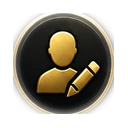
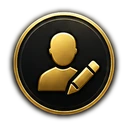
feat: refine daily plan session visuals

diff --git a/src/tabs/RihlahHome.jsx b/src/tabs/RihlahHome.jsx
@@ -315,24 +315,20 @@ export default function RihlahHome({
               const sess=SESSIONS.find(s=>s.id===row.id);
               const done=!!dailyChecks[row.id];
               const isActive=row.id===activeSess?.id&&!done;
+              const accent=sess?.color||"#4ADE80";
               return (
-                <div key={row.id}>
-                  <div className="sbtn" onClick={()=>toggleCheck(row.id)} style={{padding:"10px 8px",cursor:"pointer",borderRadius:10,background:done?`linear-gradient(90deg,${sess?.color||"#4ADE80"}22 0%,${sess?.color||"#4ADE80"}08 100%)`:"transparent",border:`1px solid ${done?(sess?.color||"#4ADE80")+"55":"transparent"}`,boxShadow:done?`inset 0 0 14px ${sess?.color||"#4ADE80"}18`:"none",transition:"all .2s"}}>
-                    <div style={{display:"flex",alignItems:"center",gap:10}}>
-                      <div style={{width:42,height:42,display:"flex",alignItems:"center",justifyContent:"center",flexShrink:0,filter:`drop-shadow(0 0 ${done?10:6}px rgba(230,184,74,0.5))`,position:"relative"}}>
-                        {sess && <SessionMedallion id={sess.id} size={42} color={sess.color} />}
-                        {done&&<div style={{position:"absolute",bottom:-2,right:-2,width:14,height:14,borderRadius:"50%",background:sess?.color||"#4ADE80",display:"flex",alignItems:"center",justifyContent:"center",fontSize:8,color:"#fff",fontWeight:800,boxShadow:`0 0 6px ${sess?.color||"#4ADE80"}80`}}><CheckGlyph size={9}/></div>}
-                      </div>
-                      <div style={{flex:1,minWidth:0}}>
-                        <div style={{fontSize:13,fontWeight:600}}>
-                          <span style={{color:isActive?"#F0C040":done?(sess?.color||"#4ADE80"):"#E6B84A",textShadow:isActive?"0 0 10px rgba(240,192,64,0.30)":done?`0 0 10px ${sess?.color||"#4ADE80"}55`:"0 0 10px rgba(230,184,74,0.25)"}}>{sess?.time||row.id}</span>{" "}
-                          <span style={{fontWeight:400,color:done?"rgba(243,231,200,0.85)":"rgba(243,231,200,0.55)"}}>— {row.label}</span>
-                        </div>
-                        <div style={{fontSize:11,color:done?"rgba(243,231,200,0.55)":"rgba(243,231,200,0.30)",marginTop:2}}>{row.desc}</div>
-                      </div>
-                    </div>
+                <div key={row.id} className="sbtn" onClick={()=>toggleCheck(row.id)} style={{display:"flex",alignItems:"center",gap:12,padding:"11px 12px",borderRadius:14,marginBottom:8,cursor:"pointer",background:done?`linear-gradient(90deg,${accent}2E 0%,${accent}0D 100%)`:`linear-gradient(90deg,${accent}18 0%,${accent}05 100%)`,border:`1px solid ${done?accent+"55":isActive?accent+"3A":accent+"20"}`,boxShadow:isActive?`inset 0 0 16px ${accent}1A,0 0 10px ${accent}14`:done?`inset 0 0 12px ${accent}14`:"none",transition:"all .2s"}}>
+                  <div style={{width:48,height:48,display:"flex",alignItems:"center",justifyContent:"center",flexShrink:0,filter:`drop-shadow(0 0 ${done||isActive?9:6}px rgba(230,184,74,0.5))`,position:"relative"}}>
+                    {sess && <SessionMedallion id={sess.id} size={48} color={accent} />}
+                    {done&&<div style={{position:"absolute",bottom:-2,right:-2,width:14,height:14,borderRadius:"50%",background:accent,display:"flex",alignItems:"center",justifyContent:"center",fontSize:8,color:"#fff",fontWeight:800,boxShadow:`0 0 6px ${accent}80`}}><CheckGlyph size={9}/></div>}
                   </div>
-                  {i<arr.length-1&&<div style={{height:1,background:"linear-gradient(90deg,rgba(217,177,95,0) 0%,rgba(232,200,120,0.30) 50%,rgba(217,177,95,0) 100%)"}}/>}
+                  <div style={{flex:1,minWidth:0}}>
+                    <div style={{fontSize:13,fontWeight:600}}>
+                      <span style={{color:isActive?accent:done?accent:"#E6B84A",textShadow:isActive||done?`0 0 10px ${accent}55`:"0 0 10px rgba(230,184,74,0.25)"}}>{sess?.time||row.id}</span>{" "}
+                      <span style={{fontWeight:400,color:done?"rgba(243,231,200,0.85)":"rgba(243,231,200,0.60)"}}>— {row.label}</span>
+                    </div>
+                    <div style={{fontSize:11,color:done?"rgba(243,231,200,0.55)":"rgba(243,231,200,0.35)",marginTop:2}}>{row.desc}</div>
+                  </div>
                 </div>
               );
             });
@@ -347,8 +343,8 @@ export default function RihlahHome({
       <div style={{background:dark?"linear-gradient(135deg,rgba(30,35,50,0.9) 0%,rgba(20,25,40,0.7) 100%)":"#EADFC8",backdropFilter:"blur(20px)",border:"1px solid rgba(255,255,255,0.08)",borderRadius:22,boxShadow:dark?"0 8px 32px rgba(0,0,0,0.4),inset 0 1px 0 rgba(255,255,255,0.05)":"0 4px 16px rgba(0,0,0,0.06),inset 0 1px 0 rgba(255,255,255,0.5)",padding:"12px",marginBottom:8}}>
         <div style={{display:"flex",justifyContent:"space-between",alignItems:"center",marginBottom:10}}>
           <div style={{display:"flex",alignItems:"center",gap:8}}>
-            <div style={{width:46,height:46,display:"flex",alignItems:"center",justifyContent:"center",flexShrink:0,filter:"drop-shadow(0 0 8px rgba(230,184,74,0.45))"}}>
-              <SessionMedallion id={activeSess.id} size={46} color={activeSess.color} />
+            <div style={{width:48,height:48,display:"flex",alignItems:"center",justifyContent:"center",flexShrink:0,filter:"drop-shadow(0 0 8px rgba(230,184,74,0.45))"}}>
+              <SessionMedallion id={activeSess.id} size={48} color={activeSess.color} />
             </div>
             <div>
               <div style={{fontSize:13,fontWeight:700,color:"rgba(255,255,255,0.9)",letterSpacing:".05em",textTransform:"uppercase"}}>{activeSess.time}</div>

diff --git a/src/components/glyphs.jsx b/src/components/glyphs.jsx
@@ -186,16 +186,16 @@ export const SessionGlyph = ({ id, size = 16, style }) => {
   return <G size={size} style={style} />;
 };
 
-// Premium daily-plan session medallion — the gold-on-navy WebP that gives each
-// prayer session its identity (matches the drawer/nav medallion family). If the
-// image fails to load it falls back to the line SessionGlyph so a row never
-// breaks. Decorative — aria-hidden; the adjacent time/label names the session.
+// Daily-plan session icon — a standalone gold glyph on transparent (no ring),
+// so each prayer session reads clearly at small sizes. Falls back to the line
+// SessionGlyph if the image is unavailable so a row never breaks. Decorative —
+// aria-hidden; the adjacent time/label names the session.
 export const SessionMedallion = ({ id, size = 36, color, style }) => {
   const [ok, setOk] = React.useState(true);
-  if (!ok) return <SessionGlyph id={id} size={Math.round(size * 0.5)} style={{ color }} />;
+  if (!ok) return <SessionGlyph id={id} size={Math.round(size * 0.72)} style={{ color }} />;
   return (
     <img
-      src={`/session-${id}.webp`}
+      src={`/session-${id}-glyph.webp`}
       alt=""
       aria-hidden="true"
       onError={() => setOk(false)}

diff --git a/src/data/sessions.js b/src/data/sessions.js
@@ -4,7 +4,7 @@ export const SESSIONS = [
     title:"New Memorization",
     desc:"Your peak retention window. Memorize new ayahs right after salah while the mind is completely fresh.",
     steps:["Repeat each ayah 20 times until it feels natural","Do not proceed until you have perfected the previous ayah","Memorize every day — missing days weakens ambition"] },
-  { id:"dhuhr",   time:"Dhuhr",   arabic:"الظهر",  color:"#F6A623",
+  { id:"dhuhr",   time:"Dhuhr",   arabic:"الظهر",  color:"#F5883C",
     title:"5-Day Review",
     desc:"Review what you memorized over the last 5 days. The Sheikh says: review the previous five days before starting anything new.",
     steps:["Review what you memorized the previous five days","It escapes from hearts faster than the camel from its rope","Do not become sad if you lose memorization — this is the assembly stage"] },

diff --git a/src/components/DailyProgressChart.jsx b/src/components/DailyProgressChart.jsx
@@ -31,11 +31,11 @@ function loadSessionLog() {
 // Same per-session palette as the Rings view so a bar's colours read the same
 // way: Fajr → Isha, bottom → top.
 const SESSIONS = [
-  { id: "fajr",    label: "Fajr",    color: "#60A5FA" },
-  { id: "dhuhr",   label: "Dhuhr",   color: "#F59E0B" },
-  { id: "asr",     label: "Asr",     color: "#FB923C" },
-  { id: "maghrib", label: "Maghrib", color: "#A78BFA" },
-  { id: "isha",    label: "Isha",    color: "#34D399" },
+  { id: "fajr",    label: "Fajr",    color: "#F0C040" },
+  { id: "dhuhr",   label: "Dhuhr",   color: "#F5883C" },
+  { id: "asr",     label: "Asr",     color: "#4ECDC4" },
+  { id: "maghrib", label: "Maghrib", color: "#B794F4" },
+  { id: "isha",    label: "Isha",    color: "#68D391" },
 ];
 const SESSION_IDS = SESSIONS.map(s => s.id);
 

diff --git a/src/components/RingsProgress.jsx b/src/components/RingsProgress.jsx
@@ -4,11 +4,11 @@ import React, { useMemo } from "react";
 // plus a central "Day" ring summarizing today's overall completion.
 
 const SESSIONS = [
-  { id: "fajr",    label: "Fajr",    color: "#60A5FA" },
-  { id: "dhuhr",   label: "Dhuhr",   color: "#F59E0B" },
-  { id: "asr",     label: "Asr",     color: "#FB923C" },
-  { id: "maghrib", label: "Maghrib", color: "#A78BFA" },
-  { id: "isha",    label: "Isha",    color: "#34D399" },
+  { id: "fajr",    label: "Fajr",    color: "#F0C040" },
+  { id: "dhuhr",   label: "Dhuhr",   color: "#F5883C" },
+  { id: "asr",     label: "Asr",     color: "#4ECDC4" },
+  { id: "maghrib", label: "Maghrib", color: "#B794F4" },
+  { id: "isha",    label: "Isha",    color: "#68D391" },
 ];
 
 function loadSessionLog() {
